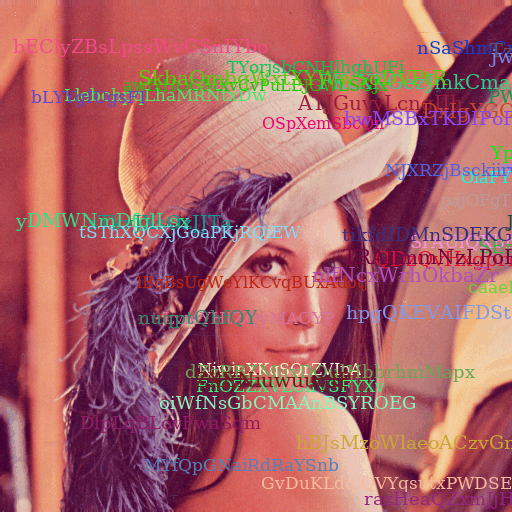
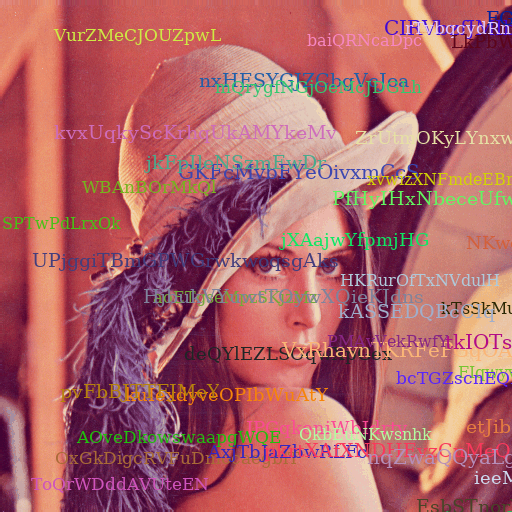
Added better results, still need to train text with clean targets

Changed region(s): [[0.0, 0.0, 1.0, 1.0]]

diff --git a/README.md b/README.md
@@ -121,50 +121,58 @@ Model was only trained for 30 epochs with a train/valid split of 1000/200 on a G
 
 <table align="center">
   <tr align="center">
-    <th colspan=6>Gaussian noise (σ = 25)</td>
+    <th colspan=9>Gaussian noise (σ = 25)</td>
   </tr>
   <tr align="center">
-    <td colspan=2>Noisy input (18.46 dB)</td>
-    <td colspan=2>Denoised (30.35 dB)</td>
+    <td colspan=2>Noisy input (21.75 dB)</td>
+    <td colspan=2>Denoised (31.73 dB)</td>
+    <td colspan=2>Clean targets (31.70 dB)</td>
     <td colspan=2>Ground truth</td>
   </tr>
   <tr align="center">
     <td colspan=2><img src="figures/lenna-gaussian-noisy.png"></td>
     <td colspan=2><img src="figures/lenna-gaussian-denoised.png"></td>
+    <td colspan=2><img src="figures/lenna-gaussian-clean-denoised.png"></td>
     <td colspan=2><img src="figures/lenna.png"></td>
   </tr>  
   <tr align="center">
-    <td colspan=2>Noisy input (18.85 dB)</td>
-    <td colspan=2>Denoised (31.47 dB)</td>
+    <td colspan=2>Noisy input (27.15 dB)</td>
+    <td colspan=2>Denoised (35.97 dB)</td>
+    <td colspan=2>Clean targets (35.94 dB)</td>
     <td colspan=2>Ground truth</td>
   </tr>
   <tr align="center">
     <td colspan=2><img src="figures/monarch-gaussian-noisy.png"></td>
     <td colspan=2><img src="figures/monarch-gaussian-denoised.png"></td>
+    <td colspan=2><img src="figures/monarch-gaussian-clean-denoised.png"></td>
     <td colspan=2><img src="figures/monarch.png"></td>
   </tr> 
 
   <tr align="center">
-    <th colspan=6>Text overlay (<i>p</i> = 0.25)</td>
+    <th colspan=9>Text overlay (<i>p</i> = 0.25)</td>
   </tr>
   <tr align="center">
-  <td colspan=2>Noisy input (15.77 dB)</td>
-  <td colspan=2>Denoised (25.41 dB)</td>
+  <td colspan=2>Noisy input (20.28 dB)</td>
+  <td colspan=2>Denoised (33.71 dB)</td>
+  <td colspan=2>Clean targets (? dB)</td>
   <td colspan=2>Ground truth</td>
   </tr>
   <tr align="center">
     <td colspan=2><img src="figures/lenna-text-noisy.png"></td>
     <td colspan=2><img src="figures/lenna-text-denoised.png"></td>
+    <td colspan=2><img src="figures/lenna-text-clean-denoised.png"></td>
     <td colspan=2><img src="figures/lenna.png"></td>
   </tr>  
   <tr align="center">
-    <td colspan=2>Noisy input (17.05 dB)</td>
-    <td colspan=2>Denoised (27.73 dB)</td>
+    <td colspan=2>Noisy input (19.43 dB)</td>
+    <td colspan=2>Denoised (33.40 dB)</td>
+  <td colspan=2>Clean targets (? dB)</td>
     <td colspan=2>Ground truth</td>
   </tr>
   <tr align="center">
     <td colspan=2><img src="figures/monarch-text-noisy.png"></td>
     <td colspan=2><img src="figures/monarch-text-denoised.png"></td>
+    <td colspan=2><img src="figures/monarch-text-clean-denoised.png"></td>
     <td colspan=2><img src="figures/monarch.png"></td>
   </tr>  
 </table>
